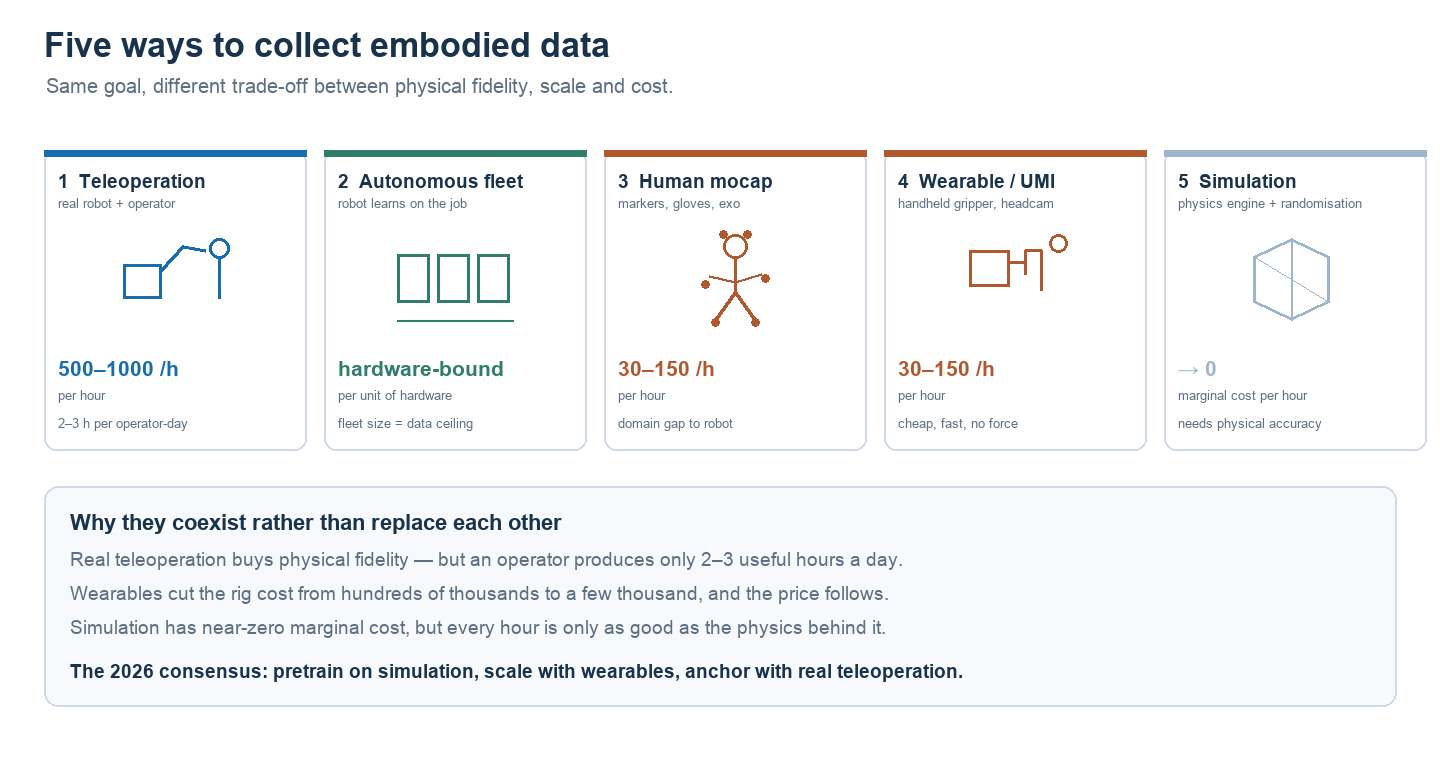
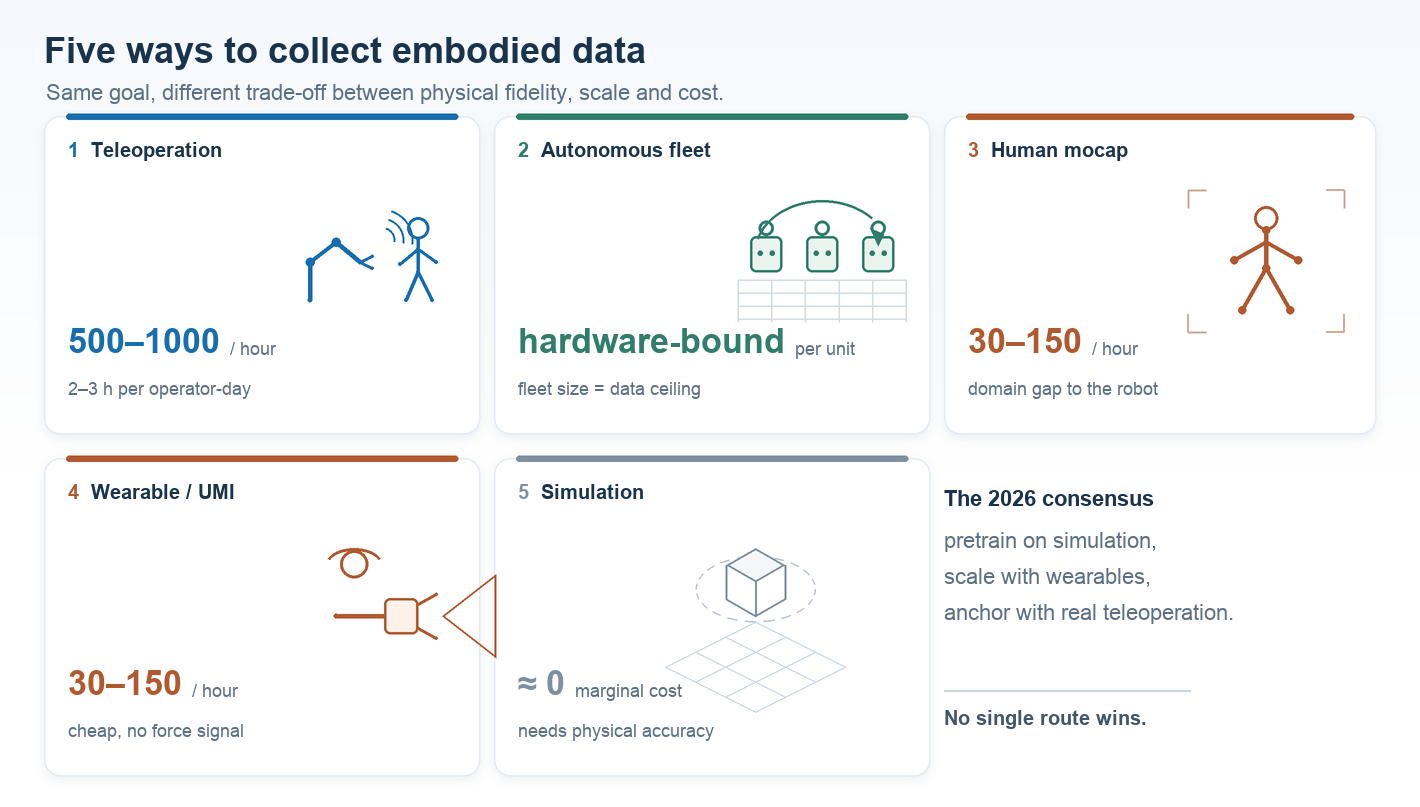
[STYLE] 重画具身数据篇的两张图
原来的图是细线条图标，观感简陋，而且在 760px 正文宽下缩到 42%，小字全糊。

- 改用 2× 超采样渲染再降采样，边缘平滑；文字在最终分辨率上绘制，保持锐利。
- 图 1 从「五列横排」改成「3+2 两行 + 结论区」，画布 1420 宽，字号提到
  20/34/18，正文宽下仍可读。五个图元重画：机械臂与遥操作员、工厂地面上的
  机器人队列、动捕笼角标与骨架、手持夹爪与视野锥、悬浮方块与地面网格。
- 图 2 重排为三栏，列宽 400、字号 20/16，箭头简化成两支大箭头，去掉原来
  逐行错位的小箭头。
- 两张图裁掉空白边距（860→807），避免在浅色页面上形成一块白板。

只改视觉，没动任何数字与结论。

diff --git a/site/notes/embodied-data.html b/site/notes/embodied-data.html
@@ -61,7 +61,7 @@
 
  <h2 id="modes">2. 五条采集路线</h2>
  <p>中文报道常归为「真机 / 无本体 / 仿真」三类。按采集主体分，实际是五条，各自占位不同：</p>
- <figure><img src="../assets/data-supply/fig1_modalities.png" width="1440" height="760" loading="lazy" alt="五种采集方式并列：遥操作、自主舰队、人体动捕、可穿戴、仿真，各标出每小时成本"><figcaption>图 1｜五条路线不是替代关系，是分工关系。</figcaption></figure>
+ <figure><img src="../assets/data-supply/fig1_modalities.png" width="1420" height="807" loading="lazy" alt="五种采集方式并列：遥操作、自主舰队、人体动捕、可穿戴、仿真，各标出每小时成本"><figcaption>图 1｜五条路线不是替代关系，是分工关系。</figcaption></figure>
  <p><strong>真机遥操作</strong>贵得有道理：一套设备二十多万，机器人本体六七十万，而一个遥操员一天只能产出两三小时有效数据。重资产叠加低产出，价格自然锚在高位。</p>
  <p><strong>无本体采集</strong>能便宜，是因为把设备从数十万压到几千到一万：头戴的采集头环、手持的 UMI 夹爪。一个人一天能采三四小时，几万人同时采，一天就是几万小时。</p>
  <p><strong>仿真</strong>的边际成本趋近于零，但它贵在前期——物理引擎要做得对，否则采出来的数据在真机上不成立。</p>
@@ -98,7 +98,7 @@
  <p>把小时数拉到一百万，全真机是七亿量级——没有哪家创业公司会这么花。而混合配比把单位成本压到三十几元，这就是行业共识「仿真预训练 + 无本体补量 + 真机锚定」的经济学基础。</p>
 
  <h2 id="supply">4. 供应链：三层，利润在两头</h2>
- <figure><img src="../assets/data-supply/fig2_supplychain.png" width="1440" height="900" loading="lazy" alt="供应链三栏：上游硬件、中游生产、下游需求，中间列出各家厂商"><figcaption>图 2｜上游卖设备，中游卖小时，下游拥有任务。</figcaption></figure>
+ <figure><img src="../assets/data-supply/fig2_supplychain.png" width="1420" height="807" loading="lazy" alt="供应链三栏：上游硬件、中游生产、下游需求，中间列出各家厂商"><figcaption>图 2｜上游卖设备，中游卖小时，下游拥有任务。</figcaption></figure>
  <p><strong>上游卖设备。</strong>动捕（OptiTrack、Vicon、诺亦腾）、数据手套（Manus、StretchSense、帕西尼）、3D 视觉（奥比中光）、UMI 夹爪、遥操作与 VR 方案、仿真引擎（Isaac、Newton、MuJoCo、GENESIS）。</p>
  <p><strong>中游卖小时。</strong>数采中心、独立数据服务商、合成数据与评测、众包平台、开源数据集。</p>
  <p><strong>下游拥有任务。</strong>本体厂商、模型实验室、工业场景的部署方。</p>
